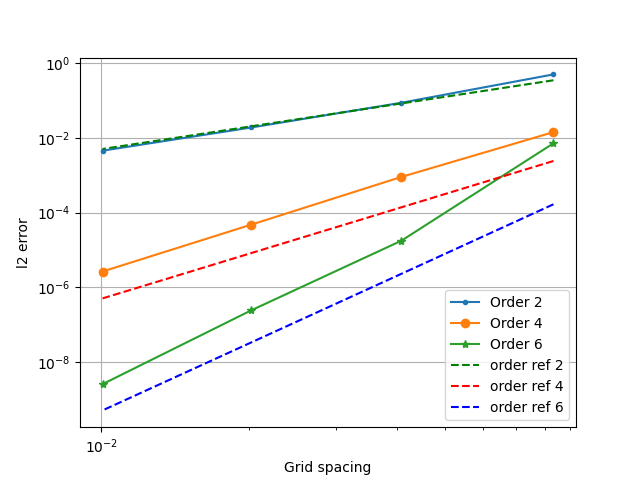
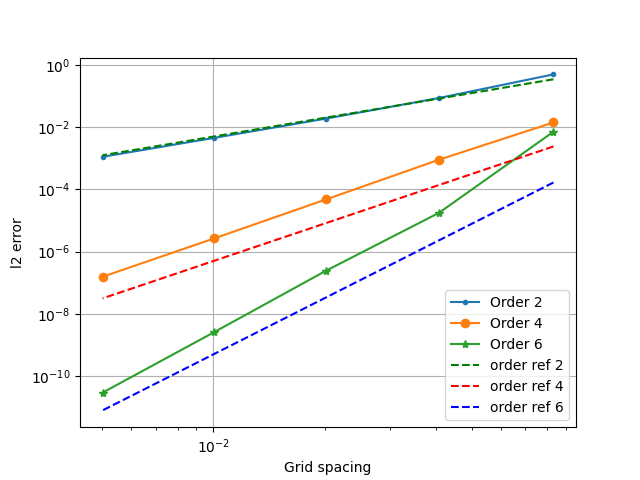
hej

diff --git a/SBP2D.py b/SBP2D.py
@@ -38,10 +38,9 @@ def run_simulation(mx, my, show_animation=True):
     ax.set_xlabel('x')
     ax.set_ylabel('y')
     ax.set_zlabel('z')
-    H,HIx,D1,D2x,e_lx,e_rx,d1_lx,d1_rx = ops.sbp_cent_6th(mx,hx)
-    H,HIy,D1,D2y,e_ly,e_ry,d1_ly,d1_ry = ops.sbp_cent_6th(my,hy)
+    H,HIx,D1,D2x,e_lx,e_rx,d1_lx,d1_rx = ops.sbp_cent_2nd(mx,hx)
+    H,HIy,D1,D2y,e_ly,e_ry,d1_ly,d1_ry = ops.sbp_cent_2nd(my,hy)
 
-    c = 1
     tauL = c**2
     tauR = -c**2
 
@@ -58,7 +57,7 @@ def run_simulation(mx, my, show_animation=True):
         return HL
     # Time discretization
     ht_try = 0.1*hx/c
-    mt = int(np.ceil(T/ht_try)) # round up so that (mt-1)*ht = T
+    mt = int(np.ceil(T/ht_try+1)) # round up so that (mt-1)*ht = T
     tvec, ht = np.linspace(0, T, mt, retstep=True)
 
     # Initialize time variable and solution vector
@@ -82,7 +81,7 @@ def run_simulation(mx, my, show_animation=True):
         # Take one step with the fourth order Runge-Kutta method.
         w, t = rk4.step(rhs, w, t, ht)
         # Update plot every 50th time step
-        if tidx % 10 == 0 and show_animation: 
+        if tidx % 30 == 0 and show_animation: 
             solution = np.reshape(w[0],(my,mx))
             ax.clear()
             ax.contour3D(X, Y, solution, 150, cmap='cool')
@@ -110,7 +109,7 @@ def main():
     mx = 200
     my = 100
     tstart = time()
-    u, T, X, Y, hx, hy, c = run_simulation(mx=mx, my=my, show_animation=False)  
+    u, T, X, Y, hx, hy, c = run_simulation(mx=mx, my=my, show_animation=True)  
     tend = time()
     print(tend-tstart)
     solution = np.reshape(u[0],(my,mx))

diff --git a/assignment3.py b/assignment3.py
@@ -97,12 +97,14 @@ def plot_final_solution(u, u_exact, xvec, T):
     plt.plot(xvec, u_exact, 'r--', label='Exact')
     ax.set_xlim([xvec[0], xvec[-1]])
     ax.set_ylim([-1, 1.2])
+    ax.set_ylabel('φ')
+    ax.set_xlabel('x')
     plt.title(f't = {T:.2f}')
     plt.legend()
     plt.show()
 
 def main():
-    ms = np.array([25, 50, 100, 200])
+    ms = np.array([25, 50, 100, 200,400])
     hs = (xr - xl)/(ms-1)
     
     methods = np.array([ops.sbp_cent_2nd, ops.sbp_cent_4th, ops.sbp_cent_6th])

diff --git a/tempCodeRunnerFile.py b/tempCodeRunnerFile.py
@@ -1,2 +1,1 @@
-ax.contour3D(X, Y, u, 50, cmap='binary')
-    plt.show()
+sbp_cent_6th
